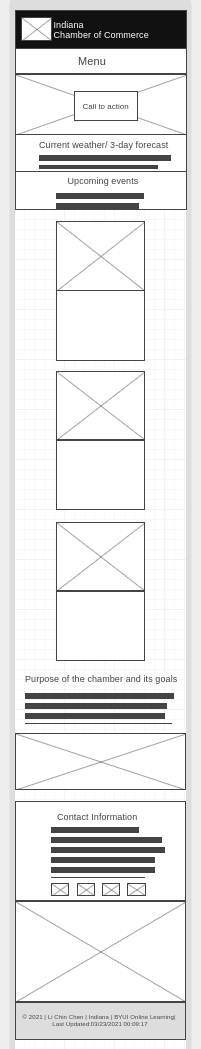
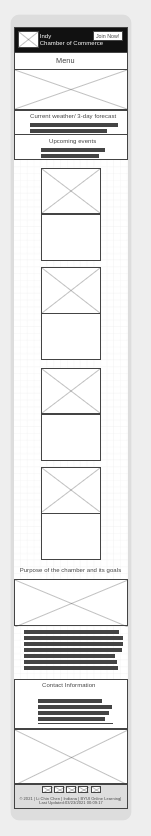
revise wireframe

Changed region(s): [[0.053, 0.0, 0.9536, 0.9952]]

diff --git a/lesson13_finalproject/css/small.css b/lesson13_finalproject/css/small.css
@@ -111,13 +111,14 @@ h1{
   
 
 /*---------------weatherbox-----------------*/
-.weatherbox {    
+.weatherbox {  
+    width:100%; 
     box-sizing: border-box;
-    /*border: 10px groove #B1B1B1;
-    background-color: #B1B1B1;*/
     text-align: center;
     padding: 10px;
     opacity: .6;
+    margin:auto;
+    margin-top:20px;
 }
 /*--------------weather summary-------------*/
 .weather-summary {   
@@ -129,13 +130,13 @@ h1{
  }
  .weatherbox:hover{
     cursor: pointer;
-    background-color: #FFA015;
+    background-color: #00A7EA;
 }
 
 /*--------------3-day forecast--------------*/
 .forecast_container {
     display: grid;
-    grid-template-columns: repeat(auto-fit, minmax(50px,1fr));
+    grid-template-columns: repeat(auto-fit, minmax(30px,1fr));
     gap: 2px;
     color:#ffffff;
 }
@@ -151,29 +152,36 @@ h1{
 
 .threeday{
     color: #ffffff;
-    text-shadow: 2px 2px 4px #000000;
+    text-shadow: 1px 1px 4px #000000;
+    font-size:25px;
 }
 /*---------------events--------------------*/
 
 .events { 
+    width:100%;
     color:#00A7EA;
     padding: 10px;
     background-color: #000000;
-    text-align: left;
+    text-align: center;
+    margin:auto;
+    margin-top:30px;
+}
+.events ul{
+    list-style-type:square;;
 }
 
 .events:hover{
     cursor: pointer;
     opacity: .8;
-    color:#00A7EA;
-    font-size:20px;
-    border-color:#ffffff;
+    color:#FFA015;
+    font-size:25px;
+    border:2px double #ffffff;
 }
 
 .events h3 {
     text-align: center;
     border-bottom-width:1px;
-    border-bottom-color:black;
+    border-bottom-color:#00A7EA;
     border-bottom-style: solid;
     padding-bottom: 5px ;
 }
@@ -429,6 +437,7 @@ section {
     color: #000000;
     font-size:20px;
   }
+ 
   .localCo {
     max-width:1300px;
     margin: 0 auto;
@@ -436,6 +445,7 @@ section {
     grid-template-columns: 1fr;
     padding:15px;
   }
+
   .local{
       padding:10px;
       color:#FFA015;
@@ -484,6 +494,7 @@ section {
 li:hover{
     background-color:#b1b1b1;
     cursor: pointer;
+    color:#000000;
 }
 
 /*------------------form-------------------*/

diff --git a/lesson13_finalproject/css/medium.css b/lesson13_finalproject/css/medium.css
@@ -56,6 +56,14 @@ h1{
   }
 
 /*-------------------weatherbox-------------------*/
+.weatherbox {   
+    box-sizing: border-box;
+    text-align: center;
+    padding: 10px;
+    opacity: .6;
+    background-color:#FFA015;
+}
+/*
 .weatherbox {
     max-width: 50%;
     position: absolute;
@@ -66,10 +74,10 @@ h1{
     padding: 10px;
     box-shadow: 0 0 30px #ffffff;
     opacity: .6;
-}
+}*/
 
 
-@media only screen and (max-width: 76.56rem) {
+/*@media only screen and (max-width: 76.56rem) {
  .weatherbox{
     max-width: 40%;
     position: absolute;
@@ -81,8 +89,8 @@ h1{
     box-shadow: 0 0 30px #ffffff;
     opacity: .6;
  }   
-}
-@media only screen and (max-width: 50rem) {
+}*/
+/*@media only screen and (max-width: 50rem) {
     .weatherbox{
        max-width: 30%;
        position: absolute;
@@ -93,8 +101,8 @@ h1{
        padding: 0px;
        box-shadow: 0 0 30px #ffffff;
        opacity: .6;
-    }   
-   }
+    }  
+   }*/
 /*-------------------3-day forecast---------------*/
 
 .threeday{
@@ -102,7 +110,17 @@ h1{
     text-shadow: 2px 2px 4px #000000;
 }
 /*------------------events-----------------------*/
-
+.events { 
+    width:50%;
+    color:#00A7EA;
+    padding: 10px;
+    background-color: #000000;
+    text-align: center;
+}
+.events ul{
+    list-style-type:none;
+}
+/*
 .events {
     max-width: 40%;
     position: absolute;
@@ -115,17 +133,15 @@ h1{
     opacity: .8;  
     text-align: left;
     color:#000000;
-}
+}*/
 
-.events ul{
-    list-style-type:square;;
-}
 
+/*
 @media only screen and (max-width: 60rem) {
 .events{
     display:none;
 }
-}
+}*/
 
 /*------------------towns--------------------------*/
 .towns-box{
@@ -172,6 +188,7 @@ h1{
     
 }
 /*---------------------section---------------------*/
+
 .localCo{
     grid-template-columns: 1fr 1fr;
     grid-row-gap: 15px;

diff --git a/lesson12_finalsiteplan/index.html b/lesson12_finalsiteplan/index.html
@@ -13,7 +13,7 @@
   </head>
   <body>
     <header>
-      <h1> Indiana Chamber of Commerce Site Plan</h1>
+      <h1> Indy Chamber of Commerce Site Plan</h1>
     </header>
         <nav>
             <ul>
@@ -29,9 +29,9 @@
         </nav>
       <main>
         <h2>Site Name </h2>
-        <p>Indiana Chamber of Commerce </p>
+        <p>Indy Chamber of Commerce </p>
         <h2>Purpose</h2>
-        <p class="p1"> This chamber of commerce site provides profitable chances and success for the persons of Indiana and their companies. We will provide the following five points.<br>
+        <p class="p1"> This chamber of commerce site provides profitable chances and success for the persons of Indianapolis and their companies. We will provide the following five points.<br>
          <br>
         <ol>
           <li> We work for small businesses: We can assist small businesses to hold an activity that can attract people. </li>

diff --git a/lesson13_finalproject/css/large.css b/lesson13_finalproject/css/large.css
@@ -41,6 +41,34 @@ h1{
   }
     
   }
+/*------------------weather box---------------*/
+.weatherbox {
+    width: 20%;
+    position: absolute;
+    top: 600px;
+    left: 100px;
+    background-color:#00A7EA;
+    border: 1px solid #ffffff;
+    padding: 10px;
+    box-shadow: 0 0 30px #ffffff;
+    opacity: .6;
+}
+.weatherbox:hover{
+    background-color: #FFA015;
+}
+@media only screen and (max-width: 88rem) {
+    .weatherbox{
+       max-width: 40%;
+       position: absolute;
+       top: 300px;
+       left: 60px;
+       background-color:#00A7EA;
+       border: 1px solid #ffffff;
+       padding: 8px;
+       box-shadow: 0 0 30px #ffffff;
+       opacity: .6;
+    }   
+   }
 /*-------------------section-------------------*/
 .localCo{
     grid-template-columns: 1fr 1fr 1fr 1fr;
